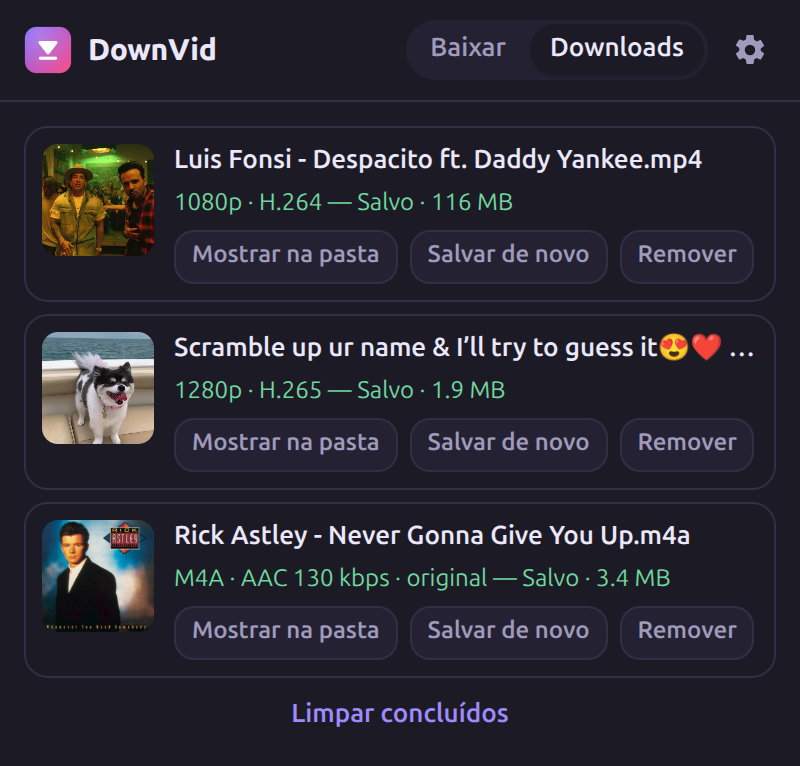
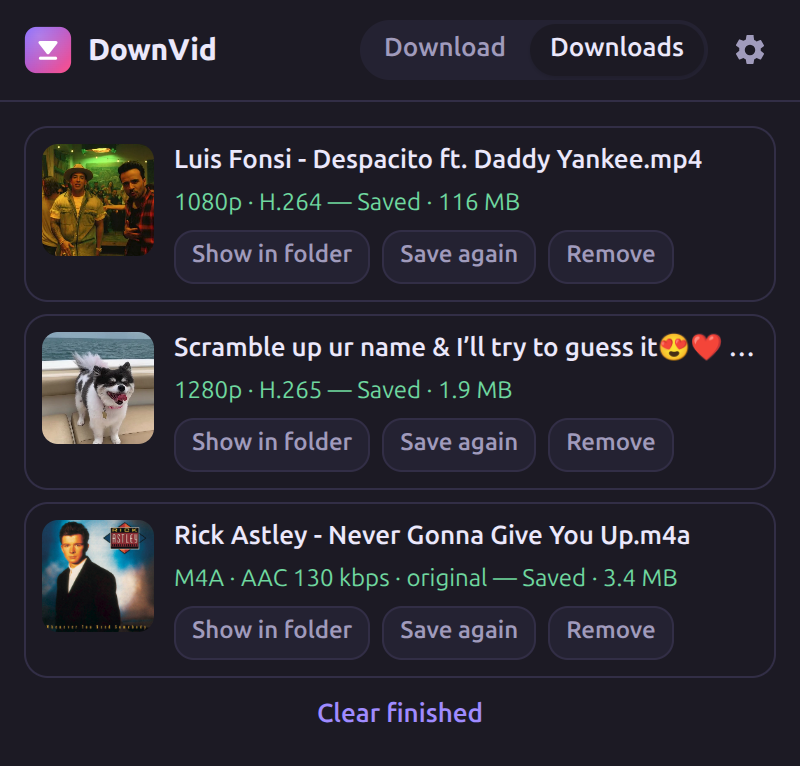
Docs in English: README and screenshots

diff --git a/src/links.js b/src/links.js
@@ -19,7 +19,7 @@ const URL_RE = /https?:\/\/[^\s<>"']+/i;
 // Trailing punctuation that share texts often glue onto the URL.
 const TRAILING_JUNK = /[).,;:!?\]}>]+$/;
 
-/** First http(s) URL in arbitrary text ("Olha isso https://youtu.be/abc !"). */
+/** First http(s) URL in arbitrary text ("Check this out https://youtu.be/abc !"). */
 export function findUrl(text) {
   const m = text?.match(URL_RE);
   if (!m) return null;

diff --git a/README.md b/README.md
@@ -1,142 +1,144 @@
 <p align="center"><img src="icons/logo.svg" width="96" alt="DownVid"></p>
 
-<h1 align="center">DownVid: extensão de navegador</h1>
+<h1 align="center">DownVid browser extension</h1>
 
 <p align="center">
   <a href="https://github.com/reinanbr/downvid-extension/actions/workflows/ci.yml"><img src="https://github.com/reinanbr/downvid-extension/actions/workflows/ci.yml/badge.svg" alt="CI"></a>
   <a href="https://github.com/reinanbr/downvid-extension/releases/latest"><img src="https://img.shields.io/github/v/release/reinanbr/downvid-extension" alt="Release"></a>
 </p>
 
-Baixe vídeos, músicas e fotos do **YouTube, YouTube Music, Instagram, Threads,
-TikTok, X/Twitter, Facebook, SoundCloud**, de links do **Spotify, Deezer e
-Apple Music** (a mesma gravação, encontrada no YouTube Music) e de qualquer
-página com vídeo MP4/HLS. É a versão para navegador do app Android
-[DownVid](https://github.com/reinanbr/downvid), sobre a
-[API do DownVid](https://reinanbr.com/labs/downvid/api).
+Download videos, music and photos from **YouTube, YouTube Music, Instagram,
+Threads, TikTok, X/Twitter, Facebook and SoundCloud**, from **Spotify, Deezer
+and Apple Music** links (the same recording, found on YouTube Music) and from
+any page with an MP4/HLS video. It is the browser version of the
+[DownVid](https://github.com/reinanbr/downvid) Android app, built on the
+[DownVid API](https://reinanbr.com/labs/downvid/api).
 
-> Use apenas com conteúdo seu, público ou que você tem autorização para
-> baixar, respeitando os termos de cada plataforma e os direitos autorais.
+> Use DownVid only with content that is your own, public, or that you are
+> authorized to download, respecting each platform's terms of service and
+> copyright.
 
 ## Download
 
-| Navegador | Pacote |
+| Browser | Package |
 |---|---|
 | Chrome, Edge, Brave, Opera | [downvid-extension-chrome.zip](https://github.com/reinanbr/downvid-extension/releases/latest/download/downvid-extension-chrome.zip) |
 | Firefox 128+ | [downvid-extension-firefox.zip](https://github.com/reinanbr/downvid-extension/releases/latest/download/downvid-extension-firefox.zip) |
 
-Cada push gera os mesmos zips como artefato do
+Every push also builds both zips as a
 [CI](https://github.com/reinanbr/downvid-extension/actions/workflows/ci.yml)
-(artefato `downvid-extension`).
+artifact (`downvid-extension`).
 
-### Instalar
+### Install
 
-- **Chrome / Edge / Brave**: descompacte o zip, abra `chrome://extensions`,
-  ative o *Modo do desenvolvedor*, clique em *Carregar sem compactação* e
-  escolha a pasta.
-- **Firefox**: `about:debugging#/runtime/this-firefox` → *Carregar extensão
-  temporária…* → escolha o zip (ou o `manifest.json`). Em `about:addons` →
-  DownVid → *Permissões*, permita o acesso a todos os sites.
+- **Chrome / Edge / Brave**: unzip the package, open `chrome://extensions`,
+  turn on *Developer mode*, click *Load unpacked* and pick the folder.
+- **Firefox**: `about:debugging#/runtime/this-firefox` → *Load Temporary
+  Add-on…* → pick the zip (or `manifest.json`). In `about:addons` → DownVid →
+  *Permissions*, allow access to all sites.
 
-## Telas
+## Screenshots
 
-| YouTube | Música (Spotify → YouTube Music) | TikTok |
+| YouTube | Music (Spotify → YouTube Music) | TikTok |
 |---|---|---|
-| ![YouTube](docs/screenshots/youtube.png) | ![Música](docs/screenshots/music.png) | ![TikTok](docs/screenshots/tiktok.png) |
+| ![YouTube](docs/screenshots/youtube.png) | ![Music](docs/screenshots/music.png) | ![TikTok](docs/screenshots/tiktok.png) |
 
-| Downloads (baixando no servidor) | Downloads concluídos |
+| Downloads (running on the server) | Downloads finished |
 |---|---|
-| ![Downloads](docs/screenshots/downloads.png) | ![Concluídos](docs/screenshots/downloads-done.png) |
+| ![Downloads](docs/screenshots/downloads.png) | ![Finished](docs/screenshots/downloads-done.png) |
 
-<img src="docs/screenshots/options.png" width="520" alt="Configurações">
+<img src="docs/screenshots/options.png" width="520" alt="Settings">
 
-## Como usar
+## Usage
 
-- **Ícone da barra**: abre a busca para a aba atual (ou cole um link).
-  Escolha a qualidade, ou *Só áudio* (M4A original, MP3 320 ou MP3 V0, com
-  tags e capa), e clique em *Baixar*. Carrosséis do Instagram e
-  do Threads têm caixas de seleção.
-- **Menu de contexto**: "Baixar link com o DownVid" em links, "Baixar desta
-  página" em páginas e vídeos, e "Baixar link selecionado" em texto.
-- **Downloads**: a fila com o progresso (baixando, juntando, convertendo),
-  cancelar, mostrar na pasta e salvar de novo. Os arquivos vão para
-  `Downloads/DownVid/`. Um download que falhou (por exemplo, um link do
-  YouTube que expirou) pode ser tentado de novo: a extensão extrai o link
-  outra vez e reinicia a mesma opção, como a renovação de links do app.
-- **Configurações**: qualidade padrão, formato de áudio, links de música em
-  *Só áudio*, subpasta, perguntar onde salvar, notificações, detector de
-  vídeos e o endereço da API.
+- **Toolbar button**: looks up the current tab (or paste a link). Pick a
+  quality, or *Audio only* (original M4A, MP3 320 or MP3 V0, with tags and
+  cover art), and click *Download*. Instagram and Threads carousels have
+  checkboxes.
+- **Context menu**: "Download link with DownVid" on links, "Download from
+  this page with DownVid" on pages and videos, and "Download selected link
+  with DownVid" on selected text.
+- **Downloads**: the queue with its progress (downloading, merging,
+  converting), cancel, show in folder and save again. Files go to
+  `Downloads/DownVid/`. A failed download (for example a YouTube link that
+  expired) can be retried: the extension extracts the link again and
+  restarts the same choice, like the app's link renewal.
+- **Settings**: default video quality, audio format, music links in *Audio
+  only*, subfolder, ask where to save, notifications, the video detector and
+  the API address.
 
-## Como funciona
+## How it works
 
-Tudo passa pela [API do DownVid](https://reinanbr.com/labs/downvid/api):
-`POST /v1/extract` lista as opções, `POST /v1/jobs` baixa no servidor (junta
-vídeo e áudio, converte para MP3/M4A com tags e capa), a extensão acompanha o
-job e salva `GET /v1/jobs/{id}/file` com o gerenciador de downloads. O que
-muda por link é como as opções são obtidas (como no `ExtractController` do
-app):
+Everything goes through the [DownVid API](https://reinanbr.com/labs/downvid/api):
+`POST /v1/extract` lists the options, `POST /v1/jobs` downloads on the server
+(merges video and audio, converts to MP3/M4A with tags and cover art), and the
+extension follows the job and saves `GET /v1/jobs/{id}/file` with the
+browser's download manager. What changes per link is how the options are
+found (as in the app's `ExtractController`):
 
-| Link | Rota |
+| Link | Route |
 |---|---|
-| **YouTube, YouTube Music, TikTok, X, Facebook, SoundCloud…** | `/v1/extract` (yt-dlp no servidor). Se nada for encontrado e o link for a aba aberta, os vídeos que a aba carregou vão para `/v1/probe`. |
-| **Spotify / Deezer / Apple Music** | `/v1/extract` lê a faixa e encontra a mesma gravação no YouTube Music (mesma duração ±5 s). Abre direto em *Só áudio*, com álbum, ano e capa (`/v1/music/meta`). |
-| **Instagram** | `/v1/extract` (consulta pública no servidor). Se o Instagram recusa o servidor, a mesma consulta pública é feita na página do post, no navegador. Posts privados e stories usam a sessão do usuário (`/api/v1/media/{id}/info/`, `reels_media`) e só a resposta vai para `/v1/parse/instagram`. |
-| **Threads** | `/v1/extract`; se o post está oculto para visitantes, os dados que a página do post embute ou busca → `/v1/parse/threads`. |
-| **Qualquer outra página** | `/v1/extract` (scan + yt-dlp) e, em paralelo, `/v1/probe` com as requisições MP4/HLS da aba (detector de rede, como o `PageSniffer` do app) e os `<video>`/`og:video` do DOM. |
+| **YouTube, YouTube Music, TikTok, X, Facebook, SoundCloud…** | `/v1/extract` (yt-dlp on the server). If nothing is found and the link is the open tab, the videos the tab loaded go to `/v1/probe`. |
+| **Spotify / Deezer / Apple Music** | `/v1/extract` reads the track and finds the same recording on YouTube Music (same duration ±5 s). Opens in *Audio only*, with album, year and cover art (`/v1/music/meta`). |
+| **Instagram** | `/v1/extract` (the logged-out query, made by the server). If Instagram refuses the server, the same logged-out query runs on the post page, in the browser. Private posts and stories use the user's own session (`/api/v1/media/{id}/info/`, `reels_media`) and only the response goes to `/v1/parse/instagram`. |
+| **Threads** | `/v1/extract`; if the post is hidden from visitors, the data the post page embeds or fetches → `/v1/parse/threads`. |
+| **Any other page** | `/v1/extract` (page scan + yt-dlp) and, in parallel, `/v1/probe` with the MP4/HLS requests the tab made (network sniffer, like the app's `PageSniffer`) and the page's `<video>`/`og:video`. |
 
-### YouTube e o servidor
+### YouTube and the server
 
-O YouTube pede verificação anti-bot para endereços de datacenter. O servidor
-da API resolve isso com o yt-dlp usando um provedor de *PO token*
+YouTube asks datacenter addresses for a bot check. The API server handles it
+with yt-dlp, a PO token provider
 ([bgutil-ytdlp-pot-provider](https://github.com/Brainicism/bgutil-ytdlp-pot-provider))
-e os cookies de uma conta do YouTube dedicada a isso (veja o README da API).
-A extensão não guarda nem envia sessões do YouTube.
+and the cookies of a YouTube account dedicated to it. The extension never
+stores or sends YouTube sessions.
 
-### Privacidade
+### Privacy
 
-A sessão do Instagram e do Threads nunca sai do navegador: a extensão envia
-à API só a resposta do post. O detector
-guarda as URLs de mídia em `storage.session` (some ao fechar o navegador) e
-só as envia quando você pede um download daquela aba. Os limites (arquivo de
-1 GB, 120 min, 4 downloads simultâneos no servidor, requisições por minuto)
-vêm de `GET /v1/info`; quando o servidor recusa por excesso de jobs, a
-extensão espera na fila local.
+Instagram and Threads sessions never leave the browser: the extension sends
+the API only the post's response. The sniffer keeps media URLs in
+`storage.session` (cleared when the browser closes) and sends them only when
+you ask for a download from that tab. The limits (1 GB files, 120 min, 4
+simultaneous server downloads, requests per minute) come from
+`GET /v1/info`; when the server refuses because of too many jobs, the
+extension waits in its local queue.
 
-## Desenvolvimento
+## Development
 
 ```bash
 npm ci
-npm test            # links, ids do Instagram, títulos
+npm test            # links, Instagram ids, titles
 npm run lint        # web-ext lint
-npm run build       # dist/downvid-extension-chrome.zip e -firefox.zip
-npx web-ext run     # abre o Firefox com a extensão
+npm run build       # dist/downvid-extension-chrome.zip and -firefox.zip
+npx web-ext run     # opens Firefox with the extension
 ```
 
-O CI (`.github/workflows/ci.yml`) roda checagem de sintaxe, testes, lint e
-build em cada push e PR, e publica os zips como artefato. Tags `v*` (por
-exemplo `v0.2.0`, igual ao `version` do `manifest.json`) criam um GitHub
-Release com os zips, e é para ele que os links de download apontam.
+CI (`.github/workflows/ci.yml`) runs a syntax check, the tests, the lint and
+the build on every push and pull request, and uploads the zips as an
+artifact. `v*` tags (e.g. `v0.2.0`, equal to `version` in `manifest.json`)
+create a GitHub Release with the zips, which the download links point to.
 
 ```
 manifest.json
-src/background.js       detector de rede, fila de jobs, downloads, menu de contexto
-src/extract.js          escolha da rota de extração (porta do ExtractController do app)
-src/api.js              cliente da API do DownVid
-src/links.js            plataformas, id de mídia do Instagram
-src/page_scripts.js     consultas do Instagram/Threads nas abas (porta do InstagramQuery.kt)
-src/threads_hook.js     guarda as respostas com mídia nas páginas do Threads
-popup/, options/        interface
-_locales/en, pt_BR      traduções
-test/                   testes (node --test)
+src/background.js       network sniffer, job queue, downloads, context menu
+src/extract.js          picks the extraction route (port of the app's ExtractController)
+src/api.js              DownVid API client
+src/links.js            platforms, Instagram media ids
+src/page_scripts.js     Instagram/Threads queries run in tabs (port of InstagramQuery.kt)
+src/threads_hook.js     keeps the responses that carry media on Threads pages
+popup/, options/        user interface
+_locales/en, pt_BR      translations (English is the default)
+test/                   tests (node --test)
 ```
 
-## Limitações
+## Limitations
 
-- Lives, DRM e manifestos DASH `.mpd` de páginas genéricas não são suportados.
-- O que o servidor não baixa (por exemplo, quando o YouTube bloqueia o
-  endereço dele), a extensão também não baixa: ela mostra o erro da API.
-- Conteúdo do Instagram ou Threads visível só para quem está conectado precisa
-  de login no navegador; stories sempre precisam.
+- Live streams, DRM and DASH `.mpd` manifests on generic pages are not
+  supported.
+- What the server cannot download (for example when YouTube blocks its
+  address), the extension cannot either: it shows the API's error.
+- Instagram or Threads content that only signed-in users can see needs you
+  to be signed in in the browser; stories always do.
 
-## Licença
+## License
 
-[GPL-3.0](LICENSE), como o app DownVid.
+[GPL-3.0](LICENSE), like the DownVid app.
